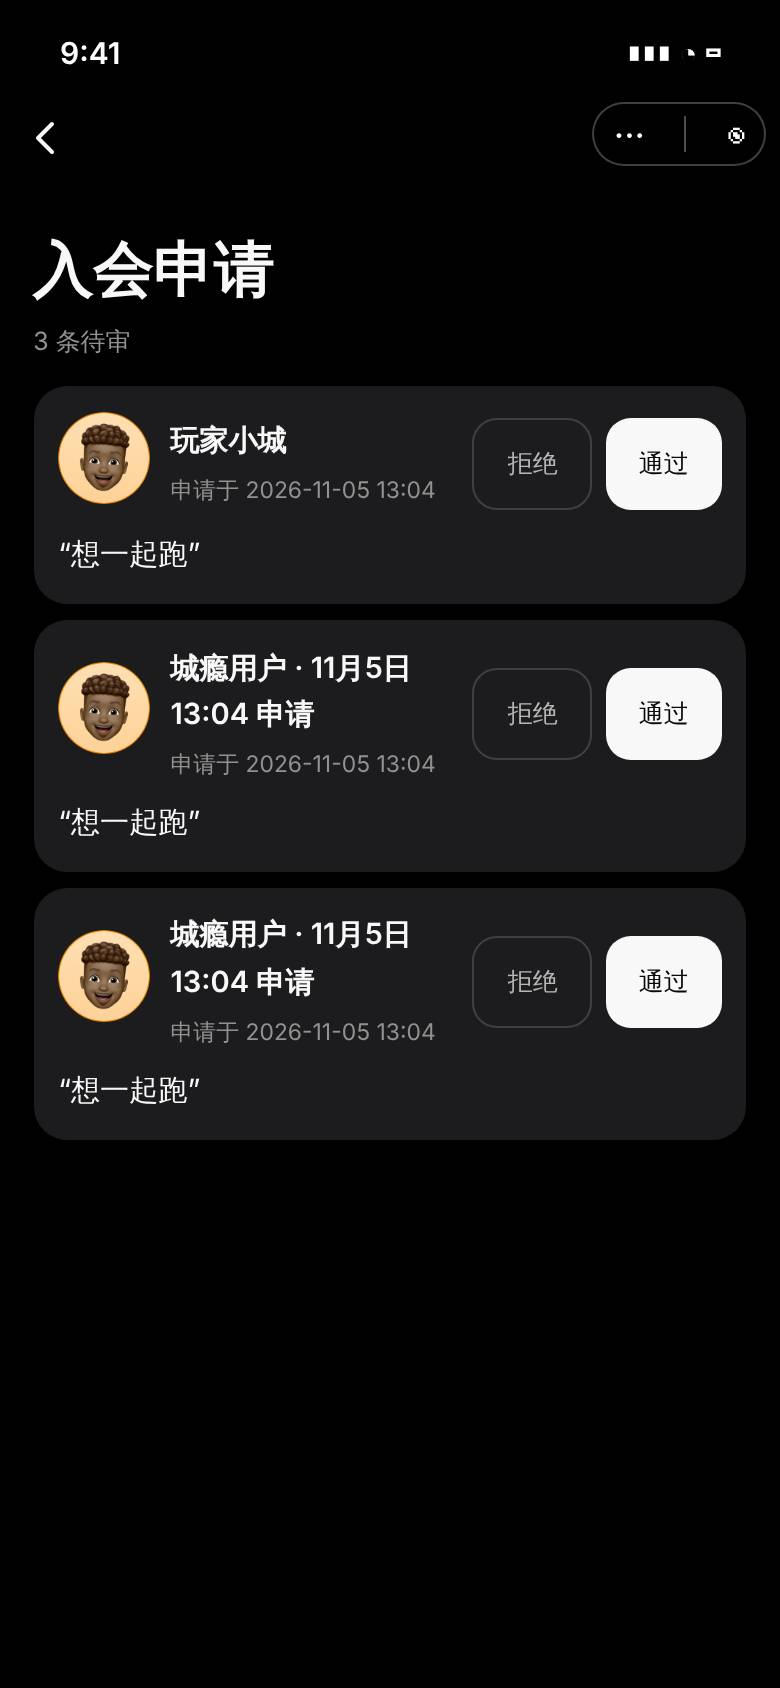
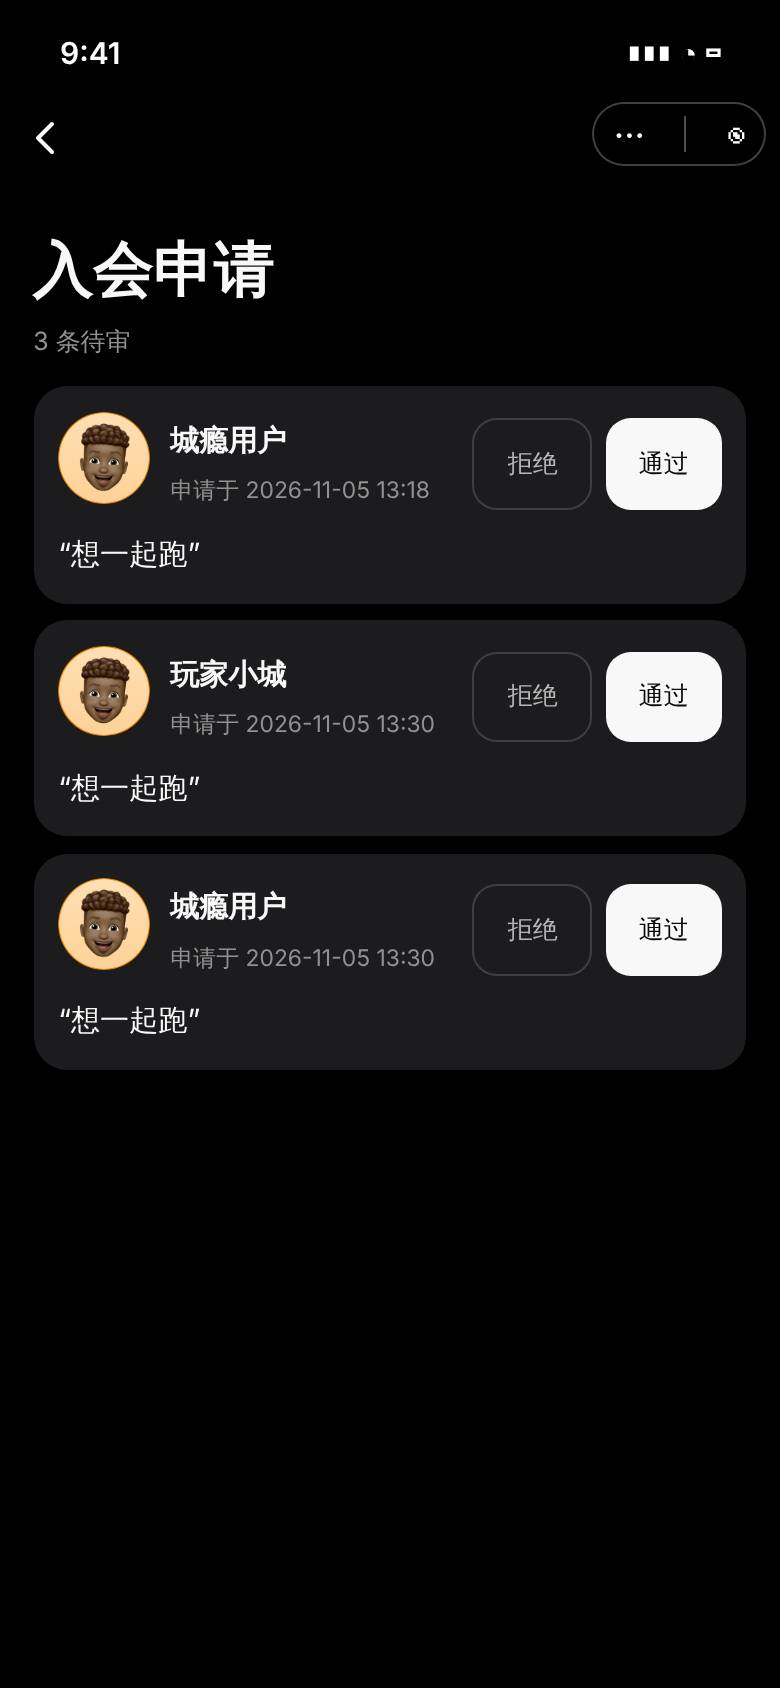
docs: 第十二轮 k3 结果(STATUS PARTIAL)与 rig 截图、回读
Claude-Session: https://claude.ai/code/session_01SUD7bQoKKpGJ5zgC7TfFQM

diff --git a/docs/delivery/walk-fix-20261102/integ/ROUND12-K3-RESULT.md b/docs/delivery/walk-fix-20261102/integ/ROUND12-K3-RESULT.md
@@ -1,0 +1,103 @@
+# Round 12, lane k3-org-pages: result
+
+Branch `integ/launch-test-20261103`, worked on a private local branch, `git pull --rebase` before every push, no force-push.
+Lanes k1, k2 and k6 pushed to the same branch at the same time.
+
+Code commits from this lane:
+- `39fc94a0` (template preview), `7228c97d` (sale-window test), `b9df1ecd` (names);
+- `4661687d` (club/merchant/publish fixes, captions, red text under fields, ledger);
+- `da7770d0` (join-request names, empty-template caption, two tests).
+
+**Screenshots come from the cloud rig, not a phone.** Real jar (MySQL 8, Redis 7) and the real mini-program in headless Chrome at 390×844, both built from `da7770d0` (except `k3-09`, from `4661687d`). The rig is `claude/cloud-walk-20261101-rig` with the club lane's `tools/harness-patches.diff`. I looked at every shot I name. Rig fixtures and read-backs are in `fix-shots/k3-walk-readbacks.txt`. All names are fictional.
+
+No migrations. No new endpoints. No gated `@Test` added or removed (`ci/funds_it_gate.py` unchanged). Main package: the changes are small edits to existing main-package files (`utils/danger-actions.js`, `utils/group-code-session.js`, `components/cy/modal-host`, `pages/club/*`, `pages/publish/*`, `pages/topic/*`, `pages/coop/*`, `pages/merchant/*`). Net bytes are about −1 KB (captions removed). I did not run preflight's size count.
+
+## Summary
+
+| # | Item | Status |
+|---|---|---|
+| 1 | Names (p3 N4, j2 F-08 leftovers, p2 N-6, j1 N12), club owner = nickname | done, with one limit (see below) |
+| 2 | p3 N3 template preview reads real data | done |
+| 2 | Remaining p3, p2 (N-7, N-8, LOW), j1 LOW | partly done; list below |
+| 3 | Sale period of club session tickets | confirmed in code, test added, no change needed |
+| 4 | f2 leftover captions; j1 F11 pink error blocks | done |
+| 5 | p3/p2 "not covered" reachable by a fixture | not done |
+
+## 1. Names
+
+**Rule now, in one helper** (`chengyinhub-system/.../util/OrganiserPersonName.java`):
+- Sign-up name (only where the viewer may see it, as before: people who govern the club; a shop only for customers it is responsible for contacting).
+- Otherwise the nickname.
+- If the nickname is the default 「城瘾用户」, it gets the moment the person joined or signed up, e.g. 「城瘾用户 · 11月5日 13:30 加入」. Never 「成员#id」.
+- The club owner is shown by nickname everywhere (`IClubService.ownerDisplayName`). `club.leader_name` (the name typed when applying) stays in the database for platform review and is no longer sent to the app.
+
+**Where it now applies:**
+- Club: member list, role picker, governance picker and transfer confirm, contribution board, join requests (new), 报名名册 (new; was nickname only), ban records (new; p3 saw 「林一帆」 banned as 「玩家小城」), customers and check-in detail, session roster, director page. Mapper fallbacks `concat('成员#', id)` removed in `ClubCrmMapper`, `ClubEventOpsMapper`, `ClubLeadMapper`, `CoopGroupVerifyMapper`. Front fallbacks 「成员 #id」 removed in governance, roles and director pages.
+- Owner name: club list/detail (`attachClubDisplay`), project home rows, merchant aggregate rows, co-op partner card.
+- Shop: 客户 shows the sign-up name for customers the shop is responsible for contacting and has the sensitive-info permission for (same rule as the phone). Others: nickname, with last-visit time for default nicknames. 经营团队 staff with default nicknames get their join time; the remove confirm adds the role after the name (for example 「… · 店员」). The duplicated first line of that confirm was removed.
+- Join requests: the card already has 「申请于 …」, so the name is not repeated there. The reject confirm adds the time: 「拒绝「城瘾用户 · 2026-11-05 13:18 申请」的入会申请?」.
+
+**Limit.** Two people with the default nickname, no sign-up name and the same join minute still read the same. This needs a decision: **needs owner**. My default: keep it; it is rare, and anything more (a code, a phone tail) is either an id in disguise or personal data.
+
+**Proof.** Tests: `OrganiserPersonNameTest` (incl. owner nickname, join-time fallback), `ClubCrmPrivacyTest`, `ClubEventAttendanceServiceImplTest`, `GameSessionOrganiserNamesTest`, `ApiClubLifecycleTest` (owner name = nickname, DB row not written), `ApiCoopControllerPartnerNodeTest`, `ProjectHomeVisibilityTest`, `MerchantCrmProfileNamespaceMyBatisTest` (H2 schema gets the `real_name` column). Rig over HTTP: see `k3-walk-readbacks.txt`. Shots `k3-01` (join requests), `k3-02` (reject confirm), `k3-04` (role picker), `k3-03-governance-picker`, `k3-03b-governance-record`.
+
+**Unverified:** the merchant 客户 list and 经营团队 with real staff and buyers were not walked in the rig (needs a co-op sale fixture); covered by unit and MyBatis tests only. The rig's MySQL is UTC, so the times on these shots read 8 hours early (HARNESS).
+
+## 2. p3 N3 and remaining findings
+
+**p3 N3, done.** `pages/templatedetail/topic-preview/index.js`. Card backs no longer use fixed per-type steps (「读档案 · 做任务，拿证据」, 「三选一结局 · 领取勋章」, 「随时开始 · 玩满 3 次通关」); they show the game's title and time only. The ✓ list now comes from the template: chapter count · node count, time, named medal. 「N 关剧情，每关一个玩法」, 「最后一关三选一结局」, 「一个人就能玩」 and 「随时开始，可以跨天」 are gone. Test: `template-shelf-redesign-20261028.test.js` (2 章 3 节点 template → 「2 章节 · 3 节点」, no 结局 claim). Shot `k3-09`: a template with no games now shows no claims at all (it used to say 「1 个玩法，一个人就能玩」). The cover is blank because the rig has no OSS (HARNESS).
+
+| ID | Status | What changed | File | Proof |
+|---|---|---|---|---|
+| p3 N5 | fixed | 团码 skips the theme's self-host shell (no phantom 「10:18」, no auto-open of an unusable one); 报名名册 drops an empty theme-level ticket row once sessions exist | `utils/group-code-session.js`, `ApiClubController.topicRegistrations` | `r12-k3-club-publish-fixes.test.js`; roster not walked |
+| p3 N6 | fixed (part) | Editor keeps 「看上去选中」 and the submitted club id the same after a template draft loads; checked again before publish | `pages/publish/fabu/index.js` (helper at file end so UI baseline anchors don't move) | `r12-k3-club-publish-fixes.test.js`. **Not done:** copy drops category and tickets; repeated 应用 makes more drafts |
+| p3 N7 | fixed (part) | Confirm now one line with the amount: 「原路退还 ¥39.00，对方从本团名册移出。此操作不可撤销。」; removed 「已核销订单不可退款」 under the button | `utils/danger-actions.js`, `pages/club/checkin-detail` | danger/checkin tests. **Not changed:** the chip 「已退款」 next to the backend message 「…尚未确认到账」: F07 tests require showing the backend's read-back text; the chip reflects the order, the message the channel |
+| p3 N8 | fixed | 开一场 defaults to the next hour + 1 (Shanghai clock); after 21:00, tomorrow 09:00 | `pages/club/event-ops/index.js` | test in `r12-k3-club-publish-fixes.test.js`; shot `k3-06` |
+| p3 N11 | fixed | Removed on 开一场: 「仅可修改无报名的未来场次」, 「按重复方式批量生成」, 「最多排未来 90 天（64 期）」, 「满员后按报名顺序候补」, the capacity explanation, 「当前为 X。」, 「空位为候补首位保留…」, 「先发布主题或完成商家合作」. Refund rule became the 集合时刻 row's value 「集合前 24 小时停止退款」; claim duration shows as the row's value 「1 天」. 容量 is hidden for multi-ticket themes (new read-only `sessionTicketCount` from `ClubSessionServiceImpl.applySessionTicketFacts`). 确认终价: 「终价不可低于此值」 and the empty 「样本不足」 box removed. 团码: 「团码仅限本场次；组队邀请码不能核销」 removed. 发布活动 / 商家报名: 「用于地图与到场导航，拒绝不影响填写」 removed. club/detail 开一场 hint removed. 角色: 「全部权限，不可撤销」 removed. 入会拒绝: two helper lines removed. 合作链接已失效: the repeated sub removed | event-ops, pricing, group-code, publish/activity, merchantapply, club/detail, roles, danger-actions, pricing/partner | shots `k3-06`, `k3-02`, `k3-04`; tests updated (`merged-copy-groups-contract`, `club-event-ops-series-title-contract`) |
+| p3 N14 | fixed | Success message stays 2.5 s before going back | `pages/topic/pricing/index.js` | — |
+| p3 N17 | fixed | 「请填写玩法看点」 | `pages/publish/temp/index.js` | — |
+| p3 F11 | fixed | 历史起草记录 with nothing to show says 「还没有起草记录」 | `pages/publish/simple/index.js` | not walked |
+| p2 N-7 | fixed | After review ended with no merchant opinion: 「商家未提交意见」 instead of 「等待商家意见」 | `pages/merchant/aftercare/detail/view-model.js` | test in `r12-k3-club-publish-fixes.test.js` |
+| p2 N-8 | fixed | Missing reason: red text 「请写拒绝理由」 under the field, page scrolls to it and focuses it; same for 撤回 | `pages/coop/invite-detail` | `r4-input-error-under-field-sweep` updated; not walked |
+| p2 N-10 | fixed | Red text under field; 「请选择承接地点」 | `pages/topic/merchantapply` | — |
+| p2 N-14 | part | Removed 「需要对齐事项时，请点击上方…」 (wrong direction, helper line) | invite-detail | test updated |
+| p2 N-17 | part | Remove confirm: duplicated first bullet removed, full-width punctuation | danger-actions | — |
+| j1 N5, N9 | fixed | see captions / red text | publish/activity | shot `k3-08` |
+| j1 N6 | fixed | After 发布 the merchant lands on 我的项目's 活动 tab | publish/activity | `publish-activity-merchant-host.test.js` |
+| j1 N10 | part | 「已加入经营团队」 no longer in error red; caption 「岗位调整或离职由店主操作，立即生效。」 removed | merchant/team | — |
+| j1 N12 | fixed | see names | merchant/team | — |
+| j1 N14 | part | Cancel confirm no longer restates the rule line; punctuation fixed | danger-actions | — |
+| j1 「先创建节点玩法，再回来选择。」 | fixed | removed | publish/activity | — |
+
+**Not done (with reason):**
+- p3 N9 (transfer feedback; one picker drives ban and transfer), N10 (「¥ x」 text built by the settlement backend; k1's area), N13 (reject in three taps), N16 (群发 inactive counts), N18 (may be the rig), N19 (fixture-only lead).
+- p3 N12 and N15: **needs owner** (which phone, if any, organisers see; light pages in the lead's dark flow). Default: leave as is.
+- p2 N-9 (wrong role / guest leftovers on merchant pages), N-11 (early redeem; money rule, k1), N-12 (server should refuse an invite without `shareMode`: the controller comment pins it as optional for back-compat; I did not change a write contract without checking every caller), N-13 (coupon form), N-14 rest (评价 timing, reply thread, sender name), N-15 (AI 形象 status), N-16 (tags), N-17 rest.
+- j1 N7 (limit heading), N8 (verifier id: data model), N11 (apply intro layout), N13 (财务 rows; k1's money screens), 「长按卡片管理」 (needs a ··· on the card), 「授权状态待确认，可点击申请」.
+
+## 3. Sale period of club session tickets
+
+Confirmed, no change. Path:
+1. 开一场 copies each theme ticket to a session ticket: `OmsTicketServiceImpl.copyTopicTicketsToActivity` → `newActivityTicket`, with `projectedStartTime/EndTime` = the session's own start and end for a club session (`activity.clubId != null`). `selfGuided` is not copied, so club session tickets are never self-guided.
+2. Buying: `CmsRegistrationServiceImpl` refuses an owner_type 2 ticket once `ticket.startTime` has passed: 「该场次已开始，不能再报名」. Earlier in the same path, `SaleAvailabilityPolicy` also ends sales at the theme's `saleEndAt`, or earlier at the ticket's own `signupDeadline`.
+3. The app uses the same rule (`utils/ticket-window.js`): a session shows 「场次已开始」 from its start.
+
+So each session stops selling when it begins, from its own ticket. One note: `signupDeadline` is copied as an absolute time from the theme ticket. If an author sets one, a later session would stop at that time. The editor no longer sets it (成团 removed 2026-07-15), so today it is empty.
+Test: `ClubSessionTicketSaleWindowTest` (new) plus the existing `RegistrationTicketWindowGateTest`.
+
+## 4. Pink error blocks (j1 F11, j1 N9, p2 N-10, j2 F-20)
+
+Form validation now uses the kit's red-text-under-field style (`cy-inline-error kind="field"`, no fill, no icon) on 发布活动 (10 fields), 商家报名 (5), 玩法模板 basics (title, 看点, category, interaction), and the shared input dialog (`components/cy/modal-host`, which covers 交接原因 and other required-reason dialogs). The 「清除」 buttons inside those errors are gone (7 controls). Operation failures, such as 「终价确认失败」, keep the filled block. 确认终价's team size already used red text. Shot `k3-08`.
+
+## Gates
+
+At `da7770d0` (after rebasing on k1/k2/k6):
+- `node tests/lint/ui-integrity.js`: `UI-GATE-0:PASS`. No baseline entries added; fabu's line anchors were kept by putting the new helper at the file end.
+- `build-action-ledger.js --check`: PASS, 5716 controls (5723 → 5716 from the 7 removed 「清除」 buttons; event contracts 2774 → 2767). `action-ledger.test.js` 46/46.
+- Mini unit tests touching changed files: 346 files run together, all pass except `sc-ui-date-count-probe.js`, which fails the same way without my changes (it is a probe, not a test).
+- Backend tests listed in section 1 plus `ClubSession*`, `ClubEventOps*`, `ApiClub*`, `MerchantCrm*`: green locally (`mvn -o -pl chengyinhub-admin test -Dtest=…`). `ClubCrmCheckinDetailMyBatisTest` needs a MySQL the local run doesn't have; not run.
+- CI: the PR #723 workflows on `4661687d` (my main commit): Mini followup regression success, Isolated Redis recovery success, Funds MySQL IT success; GitHub CI cancelled by a newer push. CI on `da7770d0` and later is still running at the time of writing. The CI result for the final commit is not confirmed here.
+
+**For the root:** k2's new `docs/delivery/walk-fix-20261102/integ/k2-club-post-contact-scan.sql` makes `ci/migration_ledger.py` refuse the SQL inventory (`UNMANAGED_SQL_LOCATION`), so `build_schema.py` fails. That stops the rig and probably the schema-based CI jobs. I removed it only in my rig's candidate worktree. It needs a reviewed classification or a move.
+
+STATUS: PARTIAL - items 1, 3 and 4 done; item 2 done for N3 and the higher findings except N6's lost category/tickets, with several LOW findings listed as not done; item 5 not done; CI on the final commit not confirmed
